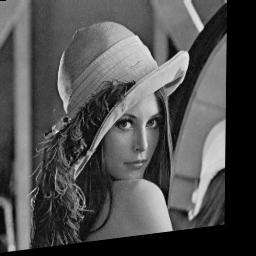
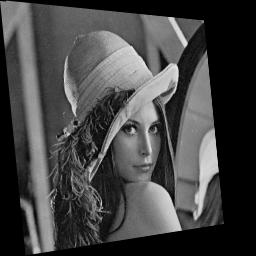
Редактирование файлов во второй практике

diff --git a/src/practiceNumberTwo/main.py b/src/practiceNumberTwo/main.py
@@ -2,8 +2,7 @@ import cv2
 import math
 import numpy
 from skimage.io import imread, imsave
-import matplotlib.pyplot as plt
-from skimage.transform import EuclideanTransform, AffineTransform, EssentialMatrixTransform, warp
+from skimage.transform import EuclideanTransform, AffineTransform, warp
 
 def normalize8(image: numpy.ndarray):
   mn = image.min()
@@ -19,24 +18,28 @@ image = imread('./src/practiceNumberTwo/lena.jpg')
 
 # евклидовые преоброзования
 
-euclideanProcessing = EuclideanTransform(rotation=numpy.deg2rad(15), translation=(1, 1))
+euclideanProcessing = EuclideanTransform(rotation=math.radians(15), translation=(1, 1))
 
 image_eulidean = warp(image=image, inverse_map=euclideanProcessing)
 
 imsave('./src/practiceNumberTwo/lena-processing-euclidean.jpg', normalize8(image_eulidean))
 
-affineProcessing = AffineTransform(shear=numpy.deg2rad(15), rotation=numpy.deg2rad(0), translation=(1, 1))
+# аффиновые преоброзования
+
+affineProcessing = AffineTransform(shear=math.radians(15), rotation=math.radians(0), translation=(1, 1))
 
 image_affine = warp(image=image, inverse_map=affineProcessing)
 
 imsave('./src/practiceNumberTwo/lena-processing-affine.jpg', normalize8(image_affine))
 
+# Проективные преоброзования
+
 rows, cols = image.shape
 
 image_essantial = cv2.warpPerspective(image, numpy.float32([
-    [1, 0, 0],
-    [0, 1, 0],
-    [0.0005, 0.00005, 1]
+    [1, 0.1, 0],
+    [0.1, 1, 0],
+    [0.001, 0.00001, 1]
 ]), (rows, cols))
 
 imsave('./src/practiceNumberTwo/lena-processing-essantial.jpg', image_essantial)
